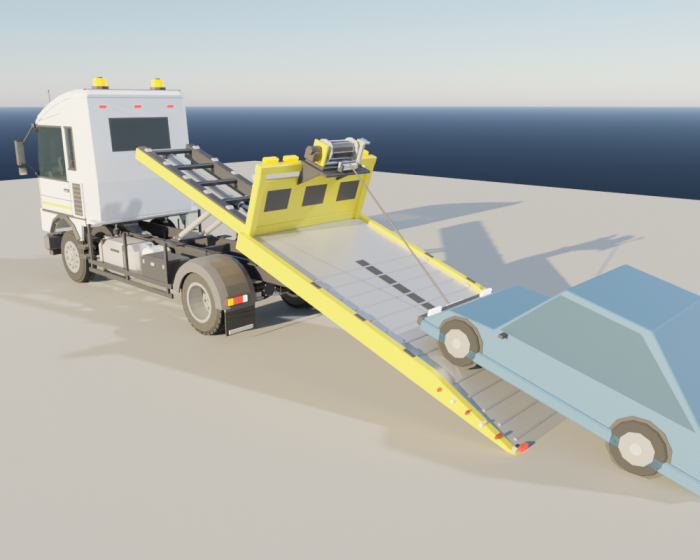
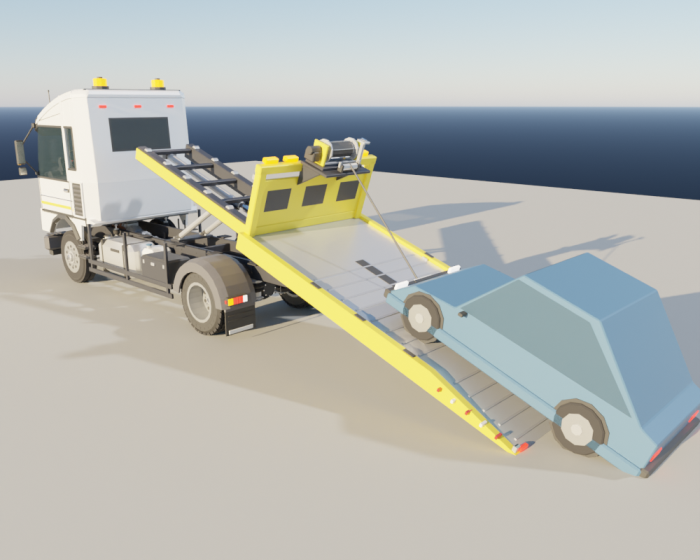
Blender: odtahovky - o dost mensie haky
Claude-Session: https://claude.ai/code/session_01LJyXRKJzkeHGHPvKuFtRQJ

diff --git a/Blender/odtahovky_low_poly.py b/Blender/odtahovky_low_poly.py
@@ -3331,7 +3331,7 @@ def pl_rig(coll, truck, parts, body, root, prop, mats):
     fair = empty(coll, name + "_navijak_vodiaca", (-0.28, 0.0, 0.12), winch)
     holder = empty(coll, name + "_hak_drziak", (xf - 0.31 - 0.26, -0.20, zt + zw + 0.48), bed)
     hook = new_object(coll, name + "_hak", parts["Odt_od_hak"], (0.0, 0.0, 0.0), holder)
-    hook.scale = (0.6, 0.6, 0.6)
+    hook.scale = (0.32, 0.32, 0.32)
     con = hook.constraints.new("COPY_LOCATION")
     con.name = "Na_aute"
     cable = new_object(coll, name + "_lano", parts["Odt_od_lano"], (0.0, 0.0, 0.0), fair)
@@ -3965,9 +3965,9 @@ def tz_rig(coll, truck, parts, body, root, prop, mats):
     driver(ext, "location", 0, "%.4f + t * %.4f" % (b["lb"] - b["li"] + 0.35, b["ext"]), [prop("t", pl)])
     hang = empty(coll, name + "_hak_zaves", (b["li"] + 0.14, 0.0, -0.34 if eu else -0.36), ext)
     driver(hang, "rotation_euler", 1, "v * %.6f" % D2R, [prop("v", pe)])
-    hooks = [("", "Hak_spustenie" if eu else "Hak1_spustenie", 0.0, TZ_DROP, 1.30 if eu else 1.40)]
+    hooks = [("", "Hak_spustenie" if eu else "Hak1_spustenie", 0.0, TZ_DROP, 0.65 if eu else 0.72)]
     if not eu:
-        hooks.append(("2", "Hak2_spustenie", 0.28, TZ_DROP - 0.4, 1.10))
+        hooks.append(("2", "Hak2_spustenie", 0.22, TZ_DROP - 0.4, 0.58))
     for suffix, pname, dy, drop, sc in hooks:
         hang2 = empty(coll, "%s_hak_zaves%s" % (name, suffix or "1"), (0.0, dy if not eu else 0.0, 0.0), hang)
         hook = new_object(coll, "%s_hak%s" % (name, suffix or "1"), parts["Odt_tz_hak"], (0.0, 0.0, 0.0), hang2)
